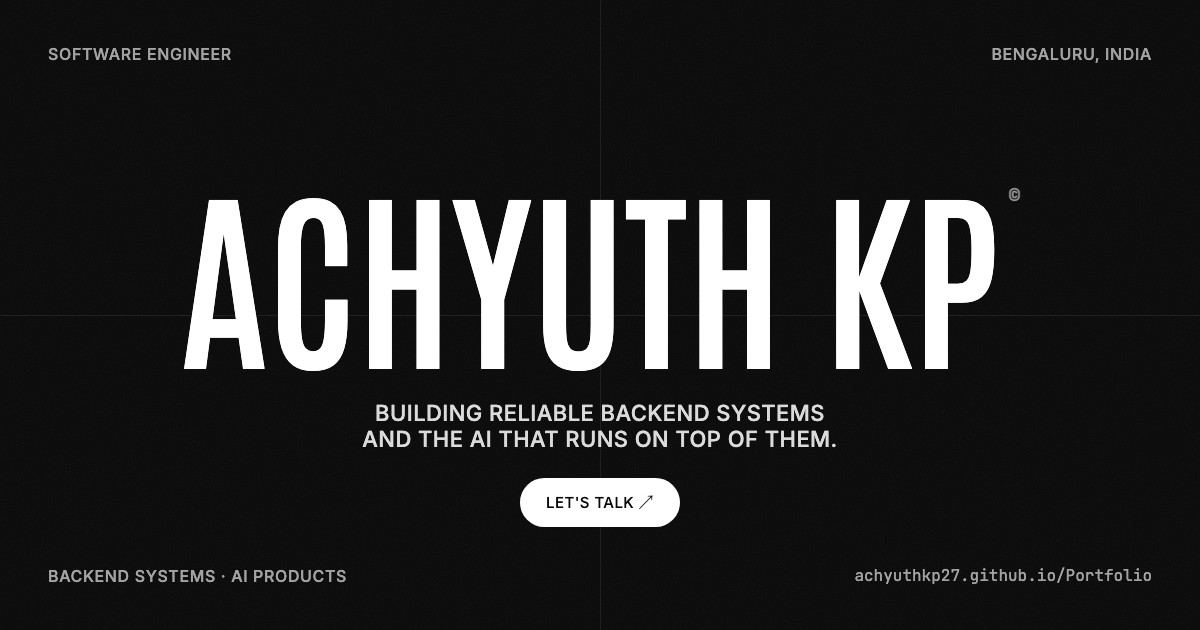
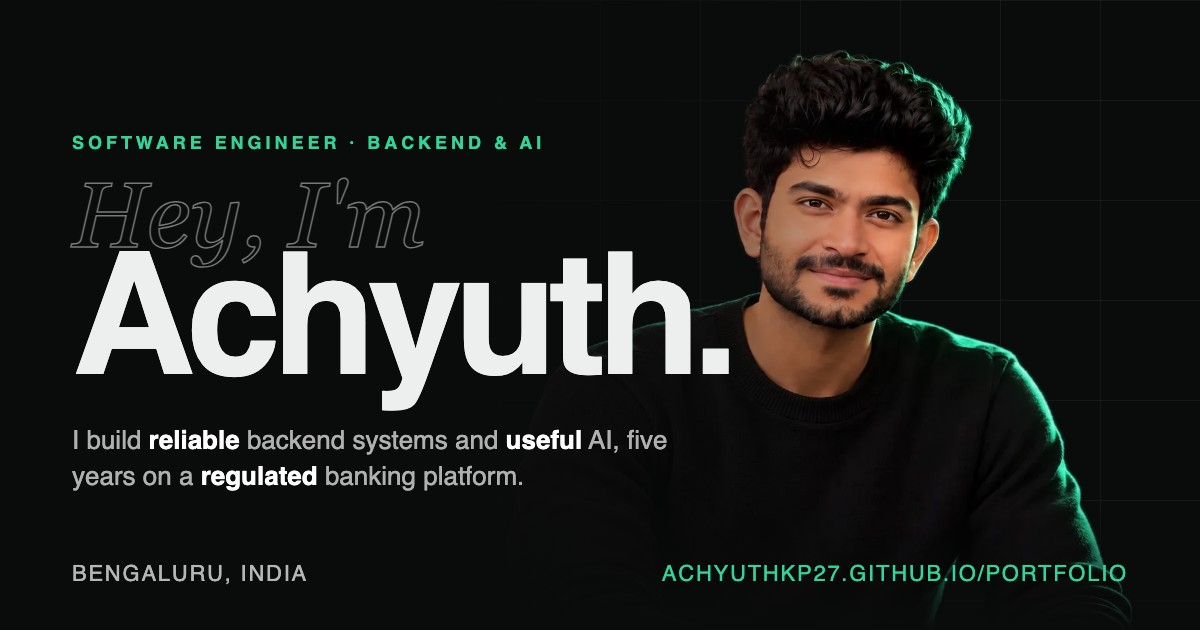
New link preview image, and the hero photo loads with the page
The share card shows the current hero: the name, the photo and the emerald
label on the page grid. Its URL carries a version so LinkedIn and WhatsApp
fetch the new one. The hero photo is preloaded from the HTML, so it arrives
before the splash lifts instead of after the page script has built the hero.

diff --git a/index.html b/index.html
@@ -23,7 +23,7 @@
 <meta property="og:description" data-rh="true"
   content="Software Engineer behind Card on File tokenization, virtual cards, and the first Google Pay launch in Trinidad and Tobago, plus a production LLM banking assistant." />
 <meta property="og:site_name" content="Achyuth KP" />
-<meta property="og:image" data-rh="true" content="https://achyuthkp27.github.io/Portfolio/og-image.jpg" />
+<meta property="og:image" data-rh="true" content="https://achyuthkp27.github.io/Portfolio/og-image.jpg?v=2" />
 
 <!-- Twitter -->
 <meta name="twitter:card" data-rh="true" content="summary_large_image" />
@@ -31,7 +31,7 @@
 <meta name="twitter:title" data-rh="true" content="Achyuth KP | Software Engineer" />
 <meta name="twitter:description" data-rh="true"
   content="Software Engineer behind Card on File tokenization, virtual cards, and the first Google Pay launch in Trinidad and Tobago, plus a production LLM banking assistant." />
-<meta name="twitter:image" data-rh="true" content="https://achyuthkp27.github.io/Portfolio/og-image.jpg" />
+<meta name="twitter:image" data-rh="true" content="https://achyuthkp27.github.io/Portfolio/og-image.jpg?v=2" />
 
 <!-- Structured data for search engines (visible without JavaScript) -->
 <script type="application/ld+json">
@@ -67,6 +67,9 @@
 <!-- Fonts are self-hosted (src/assets/fonts.css). Antonio is preloaded: the splash's words are set in it,
      so they paint in the right face from the first frame. The rest load as text needs them. -->
 <link rel="preload" href="/src/assets/fonts/antonio-latin.woff2" as="font" type="font/woff2" crossorigin>
+<!-- The hero photo is the first screen's main image, but it is only requested once the page's script
+     has built the hero; preloading starts it with the page, so it is in by the time the splash lifts. -->
+<link rel="preload" href="/images/avatar-cutout.webp" as="image" type="image/webp" fetchpriority="high">
 
 <style>
   /* Critical CSS — inlined to unblock FCP */

diff --git a/src/components/SEO.tsx b/src/components/SEO.tsx
@@ -22,7 +22,7 @@ const DEFAULT_DESCRIPTION =
 const SEO = ({
   title = DEFAULT_TITLE,
   description = DEFAULT_DESCRIPTION,
-  image = `${SITE_URL}og-image.jpg`,
+  image = `${SITE_URL}og-image.jpg?v=2`,
   url = SITE_URL,
   type = "website",
 }: SEOProps) => {
